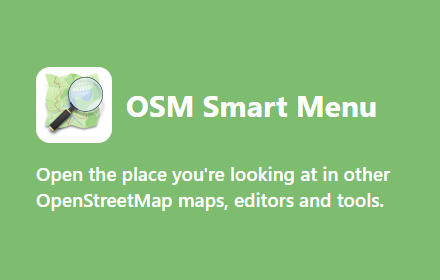
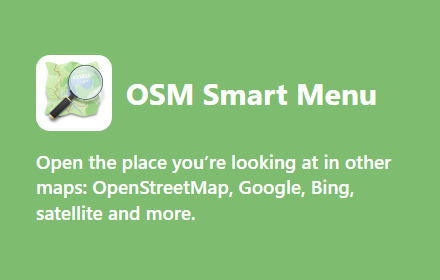
Present the extension for everyone who switches between maps
The name stays, but the descriptions now lead with what anyone can do
(open the same place in OpenStreetMap, Google Maps, Bing, satellite imagery
or street photos) and then what it adds for OSM contributors.

- Extension description (English and Brazilian Portuguese), README,
  store listing texts, promo tile and first screenshot (now from Google Maps)
- Store text no longer says the OSM logo is used with permission: that
  permission was given to the original author

Changed region(s): [[0.0591, 0.5429, 0.8864, 0.8], [0.2659, 0.2857, 0.8568, 0.4286], [0.0591, 0.1714, 0.2659, 0.5143]]

diff --git a/docs/store/render.js b/docs/store/render.js
@@ -14,9 +14,9 @@ const harness = (q) => "http://localhost:5199/harness?" + new URLSearchParams(q)
 const shots = [
   {
     file: "screenshot-1-map.png",
-    title: "Open the same place in other OSM tools",
-    subtitle: "On a map, the extension detects the position and zoom and lists editors, thematic maps, imagery and history tools that open right there.",
-    frame: harness({ page: "popup", locale: "en", tab: "https://www.openstreetmap.org/#map=17/48.8584/2.2945" }),
+    title: "Open the same place in other maps",
+    subtitle: "On OpenStreetMap, Google Maps, Bing or a Wikipedia article, the extension detects the position and lists maps, satellite imagery, street photos and OSM editors that open right there.",
+    frame: harness({ page: "popup", locale: "en", tab: "https://www.google.com/maps/@48.8584,2.2945,17z" }),
   },
   {
     file: "screenshot-2-user.png",

diff --git a/docs/store/promo-small.html b/docs/store/promo-small.html
@@ -49,7 +49,7 @@
 <body>
   <main>
     <div class="brand"><img src="../../addon/icons/osm128x128.png" alt="">OSM Smart Menu</div>
-    <p>Open the place you're looking at in other OpenStreetMap maps, editors and tools.</p>
+    <p>Open the place you’re looking at in other maps: OpenStreetMap, Google, Bing, satellite and more.</p>
   </main>
 </body>
 </html>

diff --git a/docs/store-listing.md b/docs/store-listing.md
@@ -8,22 +8,24 @@ Texts for the Chrome Web Store and addons.mozilla.org (AMO).
 
 **Summary** (Chrome Web Store: max. 132 characters):
 
-> Open the place you're looking at in other OpenStreetMap maps, editors and analysis tools — at the same position and zoom.
+> Open the place you’re looking at in other maps: OpenStreetMap, Google Maps, Bing, satellite imagery, street photos and OSM editors.
 
 **Description:**
 
-> OSM Smart Menu helps OpenStreetMap contributors move between the community's maps and tools without losing their place.
+> Looking at a place on Google Maps and want to see it on OpenStreetMap, in recent satellite imagery or in street photos? OSM Smart Menu takes you there in one click, at the same position and zoom.
 >
-> Click the toolbar button on a map page and the extension reads what you're looking at — the coordinates and zoom, or the OpenStreetMap node, way, relation, changeset, user or tag — and lists tools that can open that same thing:
+> Click the toolbar button on a map page — or on a Wikipedia article with coordinates — and the extension reads where you are and lists the maps and tools that can open that same place:
 >
-> • Editors: iD, Rapid, JOSM, Level0
+> • General maps: OpenStreetMap, Google Maps, Bing Maps, openrouteservice, cartes.gouv.fr
+> • Imagery and street photos: Copernicus (Sentinel-2), Esri Wayback, Google Street View, Mapillary, Panoramax, Wikimedia Commons photos
 > • Thematic maps: CyclOSM, OpenTopoMap, OpenRailwayMap, Waymarked Trails, OpenSeaMap and more
-> • Imagery and street photos: Copernicus (Sentinel-2), Esri Wayback, Mapillary, Panoramax, KartaView
+>
+> For OpenStreetMap contributors, it goes further: it also understands OSM nodes, ways, relations, changesets, users and tags, and opens them in the community's tools:
+>
+> • Editors: iD, Rapid, JOSM (via remote control), Level0
 > • History and changes: OSMCha, OSM Deep History, WHODIDIT, How did you contribute
 > • Data quality: Osmose, OSM Inspector, Relation Analyzer
-> • General maps: OpenStreetMap, Google Maps, Bing Maps, cartes.gouv.fr
->
-> It works in both directions: from Google Maps or Bing you can jump straight to OpenStreetMap or an editor at the same place.
+> • Data tools: Overpass Turbo, GeoHack
 >
 > You can search the list, turn tools on or off, reorder them, add your own links with URL templates, and export your settings to another browser.
 >
@@ -32,7 +34,7 @@ Texts for the Chrome Web Store and addons.mozilla.org (AMO).
 > Open source (GPL-3.0): https://github.com/erickdeoliveiraleal/osm-smart-menu
 > Originally created by João Guilherme Packer.
 >
-> The OpenStreetMap logo is a trademark of the OpenStreetMap Foundation, and is used with their permission. This project is not endorsed by or affiliated with the OpenStreetMap Foundation.
+> The OpenStreetMap logo is a trademark of the OpenStreetMap Foundation. This project is not endorsed by or affiliated with the OpenStreetMap Foundation.
 
 **Category:** Chrome Web Store: Tools · AMO: Search Tools, Other
 
@@ -44,28 +46,30 @@ Texts for the Chrome Web Store and addons.mozilla.org (AMO).
 
 **Single purpose** (Chrome Web Store):
 
-> Open the map position or OpenStreetMap element shown in the current tab in other OpenStreetMap-related websites.
+> Open the map position or OpenStreetMap element shown in the current tab in other map websites and OpenStreetMap tools.
 
 ## Português (Brasil)
 
 **Resumo:**
 
-> Abra o lugar que você está vendo em outros mapas, editores e ferramentas do OpenStreetMap, na mesma posição e zoom.
+> Abra o lugar que você está vendo em outros mapas: OpenStreetMap, Google Maps, Bing, satélite, fotos de rua e editores do OSM.
 
 **Descrição:**
 
-> O OSM Smart Menu ajuda quem contribui com o OpenStreetMap a passar entre os mapas e ferramentas da comunidade sem perder o lugar.
+> Está vendo um lugar no Google Maps e quer vê-lo no OpenStreetMap, em imagens de satélite recentes ou em fotos de rua? O OSM Smart Menu leva você até lá com um clique, na mesma posição e zoom.
 >
-> Clique no botão da extensão numa página de mapa e ela identifica o que você está vendo — coordenadas e zoom, ou o nó, via, relação, conjunto de alterações, usuário ou etiqueta do OpenStreetMap — e lista ferramentas que abrem esse mesmo conteúdo:
+> Clique no botão da extensão numa página de mapa — ou num artigo da Wikipedia com coordenadas — e ela identifica onde você está e lista os mapas e ferramentas que abrem esse mesmo lugar:
 >
-> • Editores: iD, Rapid, JOSM, Level0
+> • Mapas gerais: OpenStreetMap, Google Maps, Bing Maps, openrouteservice, cartes.gouv.fr
+> • Imagens e fotos de rua: Copernicus (Sentinel-2), Esri Wayback, Google Street View, Mapillary, Panoramax, fotos do Wikimedia Commons
 > • Mapas temáticos: CyclOSM, OpenTopoMap, OpenRailwayMap, Waymarked Trails, OpenSeaMap e outros
-> • Imagens e fotos de rua: Copernicus (Sentinel-2), Esri Wayback, Mapillary, Panoramax, KartaView
+>
+> Para quem contribui com o OpenStreetMap, ela vai além: também entende nós, vias, relações, conjuntos de alterações, usuários e etiquetas do OSM e os abre nas ferramentas da comunidade:
+>
+> • Editores: iD, Rapid, JOSM (por controle remoto), Level0
 > • Histórico e alterações: OSMCha, OSM Deep History, WHODIDIT, How did you contribute
 > • Qualidade dos dados: Osmose, OSM Inspector, Relation Analyzer
-> • Mapas gerais: OpenStreetMap, Google Maps, Bing Maps, cartes.gouv.fr
->
-> Funciona nos dois sentidos: do Google Maps ou do Bing você vai direto para o OpenStreetMap ou para um editor no mesmo lugar.
+> • Ferramentas de dados: Overpass Turbo, GeoHack
 >
 > Você pode buscar na lista, ativar ou desativar ferramentas, reordená-las, criar seus próprios links com modelos de URL e exportar suas configurações para outro navegador.
 >

diff --git a/README.md b/README.md
@@ -1,5 +1,7 @@
 # OSM Smart Menu
-A browser extension to help the OpenStreetMap community easily access different maps and tools to analyze OSM data.
+A browser extension that opens the place you’re looking at in other maps — OpenStreetMap, Google Maps, Bing, satellite imagery, street photos — at the same position and zoom.
+
+For OpenStreetMap contributors it goes further: it understands OSM nodes, ways, relations, changesets, users and tags, and opens them in editors (iD, Rapid, JOSM) and in history and data quality tools (OSMCha, Osmose, Overpass Turbo…).
 
 It works on Google Chrome (and other Chromium-based browsers) and Mozilla Firefox (Desktop and Android).
 
